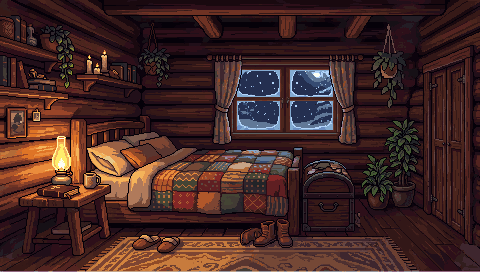
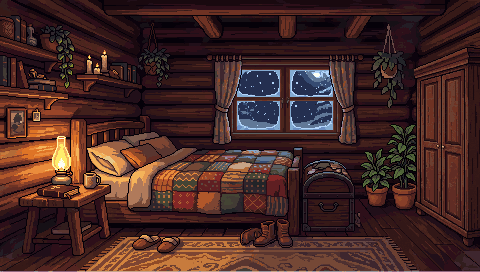
Leaving cutscene: the entrance still with the door open and his silhouette walking out with Waffles; bedroom: freestanding wardrobe with plants beside it
Claude-Session: https://claude.ai/code/session_01MJHAbDc8GE5C3zMaFTW5Js

Changed region(s): [[0.75, 0.1471, 1.0, 0.9118]]

diff --git a/src/main.js b/src/main.js
@@ -14,7 +14,7 @@
     'cut/stack', 'cut/carry_in', 'cut/fire_lay', 'cut/fire_light', 'cut/bible_read', 'cut/music', 'cut/sleep', 'cut/pocket',
     'cut/pet_dog1', 'cut/pet_dog2', 'cut/pet_dog3', 'cut/pet_cat1', 'cut/pet_cat2', 'cut/pet_cat3',
     'lake_hands', 'props/woodpile', 'snow/heap_big', 'snow/heap_small', 'smoke/p0', 'smoke/p1', 'smoke/p2', 'smoke/p3', 'smoke/p4',
-    'world_ground', 'map/pine', 'map/spruce', 'map/cabin_td', 'map/mountain_td', 'map/chop_td', 'map/fishing_td', 'map/chapel_td', 'bg_chapel', 'bg_woodlot', 'bg_bedroom', 'ui/notebook', 'ui/kit', 'couch_scene', 'props/kitchen_unlit', 'bg_hall', 'cut/leave_coat', 'cut/leave_door', 'lit/bg_cabin', 'lit/cabin_td', 'lit/chapel_td', 'bg_forest_dim']
+    'world_ground', 'map/pine', 'map/spruce', 'map/cabin_td', 'map/mountain_td', 'map/chop_td', 'map/fishing_td', 'map/chapel_td', 'bg_chapel', 'bg_woodlot', 'bg_bedroom', 'ui/notebook', 'ui/kit', 'couch_scene', 'props/kitchen_unlit', 'bg_hall', 'cut/leave_out', 'lit/bg_cabin', 'lit/cabin_td', 'lit/chapel_td', 'bg_forest_dim']
     .concat(M.images, Object.keys(M.anims))
     // each cutscene still in its other weathers and times of day (src/moments.js)
     .concat(...Object.entries(SE.CUT_VARIANTS || {}).map(([n, vs]) => vs.map((v) => `cut/${n}_${v}`)))

diff --git a/src/scenes/hall.js b/src/scenes/hall.js
@@ -8,8 +8,8 @@
   let s = null;
 
   SE.MOMENTS.leaveHome = [
-    { img: 'cut/leave_coat', dur: 4.4, text: 'Coat on, beanie on. Boots laced tight.', pan: 1, sounds: [[0.4, 'rustle'], [1.6, 'rustle'], [2.8, 'wood'], [3.4, 'wood']] },
-    { img: 'cut/leave_door', dur: 4.2, text: 'The door, the cold, the light — and Waffles is out first.', pan: -1, sounds: [[0.2, 'creak'], [0.9, 'gust'], [1.6, 'woof'], [2.6, 'step'], [3.1, 'step']] },
+    { black: 0.9, sounds: [[0.1, 'rustle'], [0.5, 'wood']] },
+    { img: 'cut/leave_out', dur: 5.0, text: 'Coat on, door open. Waffles is first out into the snow.', pan: -1, sounds: [[0.2, 'creak'], [0.8, 'gust'], [1.6, 'woof'], [2.4, 'step'], [3.0, 'step'], [3.6, 'step']] },
   ];
 
   function goOut() {

diff --git a/src/moments.js b/src/moments.js
@@ -146,7 +146,7 @@
   const BASE = {
     alert: 'day', chop: 'day', lake: 'day', trail: 'day', forest: 'day', summit: 'day', porch: 'day',
     shovel: 'snow', shovel2: 'snow', shovel3: 'snow', porch2: 'day', climb1: 'day', climb2: 'day', camera: 'day', sketch: 'day',
-    leave: 'night', leave_door: 'night', leave_coat: 'day', chapel: 'night', home: 'night', pray: 'night', lantern: 'night',
+    leave: 'night', leave_out: 'day', chapel: 'night', home: 'night', pray: 'night', lantern: 'night',
   };
   SE.CUT_VARIANTS = {
     alert: ['snow', 'storm', 'night'], chop: ['snow', 'storm', 'night'], lake: ['snow', 'storm', 'night'],

diff --git a/docs/PROGRESS.md b/docs/PROGRESS.md
@@ -148,6 +148,6 @@
 - Text: small text now uses bitmap pixel fonts at their native 10px (Tiny5; Micro 5 for size-6 notes) — Pixelify Sans at 8px blurred B/G together and fused "fi" into an "A" ("Arewood"). Headings ≥12px stay Pixelify. A zero-width non-joiner also keeps f+i/l apart.
 - Fewer hearts: none on banners or celebration bursts (sparkles only), none on buttons, rare when stroking Mochi. New ElevenLabs reward jingle (sfx_jingle: soft music box and bells).
 - Mochi v5: every existing animation (walk ×4, sit, jump ×2, loaf ×2 — 74 frames) upscaled 1.5× and reskinned with PixelLab transfer_outfit to match her cutscenes: a chunky, fluffy grey tabby with dark stripes, white chest, muzzle and paws (~36px instead of ~25px). Same poses and timing.
-- Entrance hall (src/scenes/hall.js, bg_hall: PixelLab redraw of the cut/home still at full room size, cat removed): the only room with the front door. "Step outside" plays leaveHome (cut/leave_coat: coat on by the hooks; cut/leave_door: the door open, Waffles out first) → yard. Coming in (yard "Go inside", storms) plays the home still and lands in the hall.
+- Entrance hall (src/scenes/hall.js, bg_hall: PixelLab redraw of the cut/home still at full room size, cat removed): the only room with the front door. "Step outside" plays leaveHome: cut/leave_out (the home still inpainted: door open to the snow, his silhouette and Waffles walking out, Mochi watching, the coat gone from its hook) → yard. Coming in plays the home still and lands in the hall.
 - Living room back to its original right side (tall window, low bookshelf; the door is gone), with the single mantel lamp, the Bible on the coffee table and the green book now on the low shelf (PixelLab inpaint). Mochi's doormat spot became the low shelf top.
-- Bedroom: the door is painted out — a built-in wardrobe and two potted plants instead, no coat rack. Mochi's rug spots no longer overlap Waffles (bedroom and living room).
+- Bedroom: the door is painted out — a freestanding wardrobe with two potted plants beside it, no coat rack. Mochi's rug spots no longer overlap Waffles (bedroom and living room).
